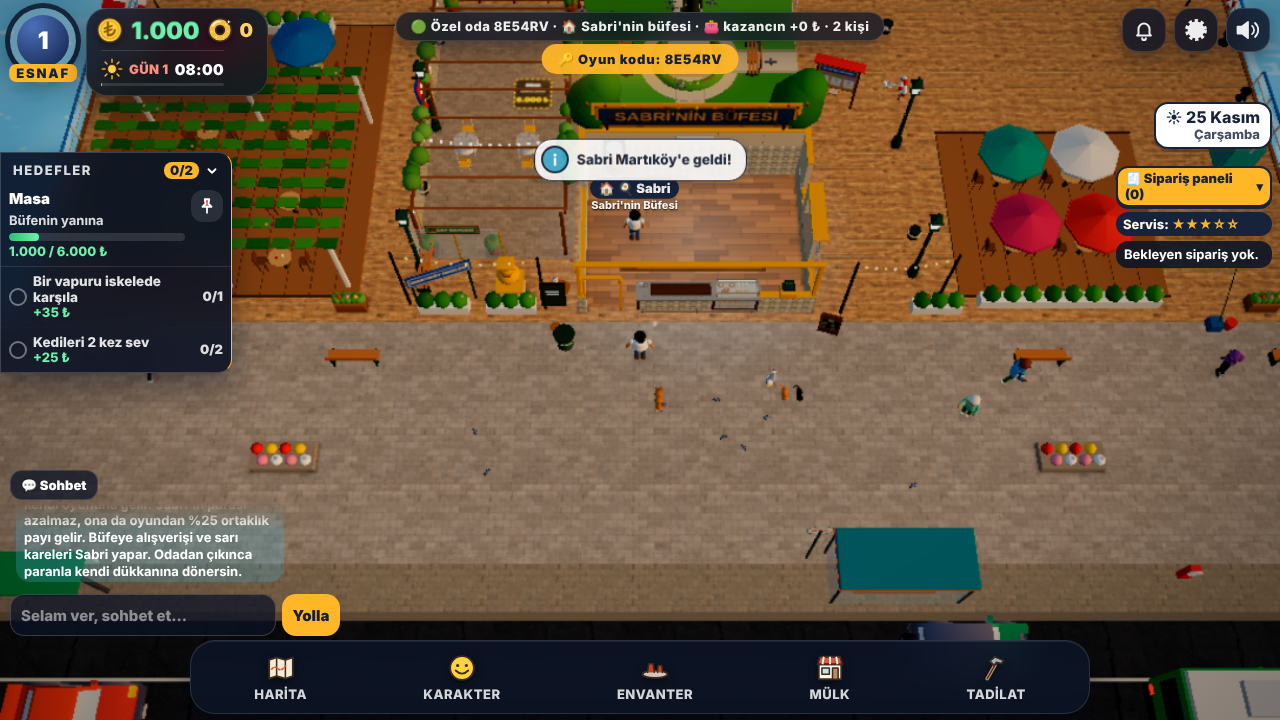
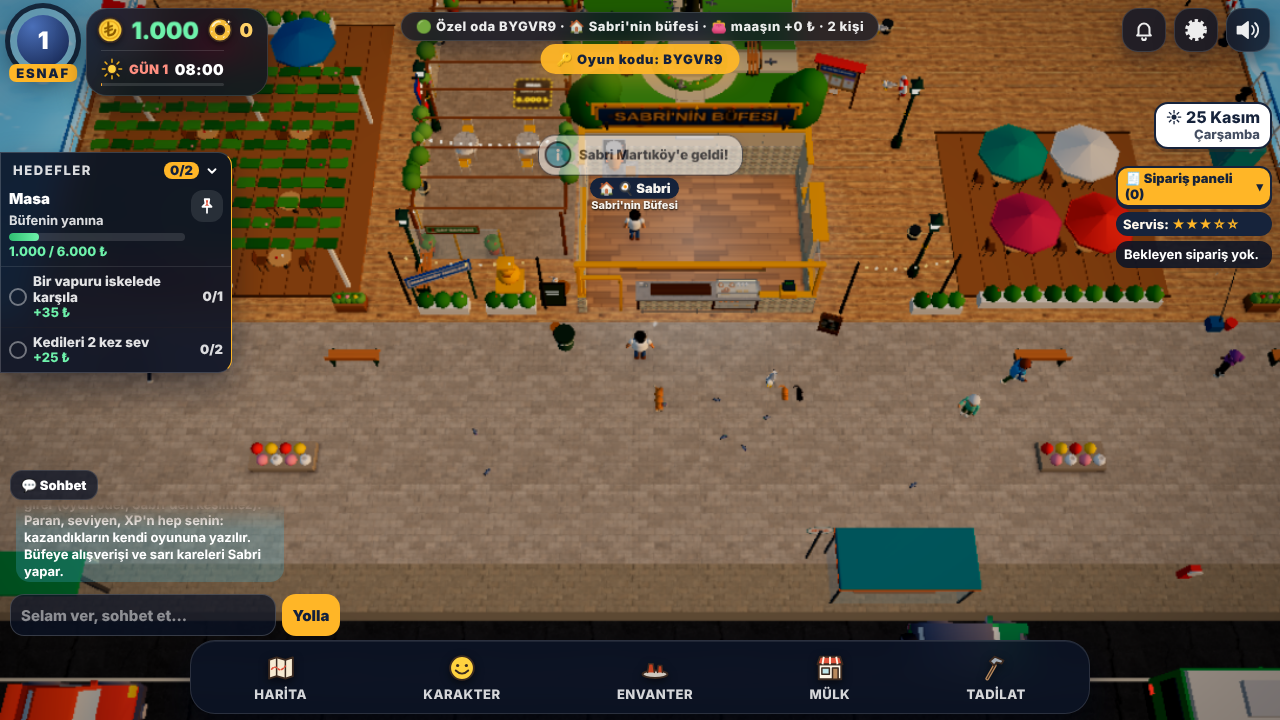
Multiplayer: MMORPG usulü, satış ev sahibine, misafire maaş, seviye herkesin kendine
Sahip 2026-11-25: "bir mmorpg gibi düşün herkesin seviyesi parası gelişimi
kendine, gelen arkadaş yardım ediyor karşılığında maaş alıyor".

- Misafirin ev sahibinin büfesindeki satışı (tezgah, adisyon, bahşiş,
  salon) ev sahibinin kasasına tam gider; misafirin cebine oyunun bastığı
  %25 maaş girer (economy.ts pay/cashIn), para hiç geri düşmez.
- Misafirin XP'si kendi seviyesine birikir (levels.ts rt.misafirXp),
  çıkışta / kayıtta kendi seviyesini atlatır; ev sahibinin seviyesi oynamaz.
- Rozetler: misafir "maaşın +N", ev sahibi "yardım +N".
- Önceki committeki düzeltmeler (kira, alışveriş kilidi, kayıt, dünya
  yenileme) aynen duruyor.

Claude-Session: https://claude.ai/code/session_01GSWba9W2QykZec9B4C2BEG

diff --git a/oyun/src/game/online.ts b/oyun/src/game/online.ts
@@ -12,7 +12,7 @@
  * - Names travel as typed nicknames in presence (display data, untrusted), set with textContent only.
  */
 import { hesap } from './net/supa';
-import { ORTAK_PAY } from './net/misafir';
+import { MISAFIR_MAAS } from './net/misafir';
 import { susturuldu, benSusturuldum, adlar } from './net/admin';
 import { adDogrulayici, etiket } from './net/kimlik';
 import { logYaz } from './net/log';
@@ -143,7 +143,7 @@ export function createOnline(d: OnlineDeps): OnlineView {
   let hostMissing = 0;
   const kimlik = adDogrulayici(adlar); let kimlikT = 0;   // Martı Kimlik: görünen hesap adı sunucudan (net/kimlik.ts)
   let retryT = 20, host = false, guestOf = '', guestSig = '', worldT = 0, worldWant = false, worldSig = '', kasaBase = -1, askT = 3, sheetT = 0;
-  /** net/misafir.ts: misafirin bu odada kazandığı (tamamı kendi cebinde) / ev sahibine gelen ortaklık payı; oda rozetinde yazar */
+  /** net/misafir.ts: misafirin bu odada ev sahibine sattığı (maaşı bunun MISAFIR_MAAS payı) / ev sahibine misafirlerden gelen; oda rozetinde yazar */
   let misafirKazanc = 0, ortakToplam = 0;
   try { const q = new URLSearchParams(location.search).get('oda'); if (q) code = kodTemiz(q); } catch { /* */ }
 
@@ -163,7 +163,7 @@ export function createOnline(d: OnlineDeps): OnlineView {
   if (supaReady()) connect(code);
 
   function connect(c: string, asHost = false) {
-    kasaGonder();   // odadan çıkmadan son satış bildirilir (ev sahibinin ortaklık payı kaybolmasın)
+    kasaGonder();   // odadan çıkmadan son satış ev sahibinin kasasına bildirilir
     if (link) { link.leave(); link = null; }
     if (guestOf) { guestOf = ''; guestSig = ''; try { d.world?.leave(); } catch { /* */ } }
     misafirKazanc = 0; ortakToplam = 0;
@@ -185,7 +185,7 @@ export function createOnline(d: OnlineDeps): OnlineView {
     if (!d.world || !l.on) return;
     l.on('iste', () => { if (host) worldWant = true; });
     l.on('pm', pl => { if (pl.to !== l.id || typeof pl.text !== 'string') return; const rp = remotes.get(String(pl.id || '')), ad = etiket(String(pl.ad || 'Esnaf'), rp ? kimlik.ad(rp.uid) : ''); addLog('🔒 ' + ad + ' → sen', filterChat(pl.text), 'pm', String(pl.id || '')); d.toast('🔒 ' + ad + ' sana yazdı'); });
-    // net/misafir.ts: misafirin sattığı kendi cebinde; ev sahibine yalnız oyunun bastığı ortaklık payı gelir (kimseden kesilmez)
+    // net/misafir.ts: misafirin sattığı ev sahibinin kasasına; misafirin maaşını oyun basar (kimseden kesilmez)
     l.on('kasa', pl => { const n = Number(pl.n); if (host && n > 0 && n < 1e7) { ortakToplam += d.world!.addKasa(Math.floor(n), String(pl.ad || 'Bir esnaf').slice(0, 14)) || 0; ui(); } });
     l.on('_ok', () => { if (!host && code) l.emit?.('iste', {}); });
     l.on('dunya', pl => {
@@ -194,13 +194,13 @@ export function createOnline(d: OnlineDeps): OnlineView {
       if (pl.sig === guestSig) return;
       const first = !guestOf;
       guestSig = pl.sig; guestOf = ad;
-      if (!first) kasaGonder();   // dünya yenilenmeden önce bekleyen satış bildirilir (eskiden her yenilemede siliniyordu: ortaklık payı / kazanç 0 kalıyordu)
+      if (!first) kasaGonder();   // dünya yenilenmeden önce bekleyen satış bildirilir (eskiden her yenilemede siliniyordu: ev sahibine 0 gidiyordu)
       try { d.world!.apply(pl.w, ad); kasaBase = d.world!.earned(); } catch { /* bad world: keep own */ }
-      if (first) { d.toast(tamlayan(ad) + " büfesindesin. Sattığın senin cebine!"); addLog('Martıköy', tamlayan(ad) + " büfesindesin. Sattığın her kuruş senin cebine girer ve kendi oyununa gelir. " + ad + "'in parası azalmaz, ona da oyundan %" + Math.round(ORTAK_PAY * 100) + ' ortaklık payı gelir. Büfeye alışverişi ve sarı kareleri ' + ad + ' yapar. Odadan çıkınca paranla kendi dükkanına dönersin.', 'sys'); }
+      if (first) { d.toast(tamlayan(ad) + ' büfesinde yardımdasın. Satış başına maaş alırsın!'); addLog('Martıköy', tamlayan(ad) + ' büfesindesin. Sattıkların onun kasasına gider; sana da her satışın %' + Math.round(MISAFIR_MAAS * 100) + "'i maaş olarak cebine girer (oyun öder, " + ad + "'den kesilmez). Paran, seviyen, XP'n hep senin: kazandıkların kendi oyununa yazılır. Büfeye alışverişi ve sarı kareleri " + ad + ' yapar.', 'sys'); }
       ui();
     });
   }
-  /** misafirin son bildirimden beri sattığı: cebinde kalır (net/misafir.ts), ev sahibine ortaklık payı için bildirilir */
+  /** misafirin son bildirimden beri sattığı: ev sahibinin kasasına bildirilir (net/misafir.ts) */
   function kasaGonder() {
     if (host || !guestOf || !d.world || !link?.emit) return;
     const e = d.world.earned(), n = kasaBase >= 0 ? e - kasaBase : 0;
@@ -262,7 +262,7 @@ export function createOnline(d: OnlineDeps): OnlineView {
       input.addEventListener('keyup', e => e.stopPropagation());
       addLog('Martıköy', 'Online dünyaya hoş geldin! Bir oyuncunun adına dokun, ona özel mesaj at.', 'sys');
     }
-    setPill('🟢 ' + (code ? 'Özel oda ' + code + (host ? ' · 🏠 ev sahibi' + (ortakToplam > 0 ? ' · 🤝 ortaklık +' + Math.floor(ortakToplam).toLocaleString('tr-TR') + ' ₺' : '') : guestOf ? ' · 🏠 ' + tamlayan(guestOf) + " büfesi · 👛 kazancın +" + Math.floor(misafirKazanc).toLocaleString('tr-TR') + ' ₺' : '') : '') + ' · ' + (remotes.size + 1) + ' kişi');
+    setPill('🟢 ' + (code ? 'Özel oda ' + code + (host ? ' · 🏠 ev sahibi' + (ortakToplam > 0 ? ' · 🤝 yardım +' + Math.floor(ortakToplam).toLocaleString('tr-TR') + ' ₺' : '') : guestOf ? ' · 🏠 ' + tamlayan(guestOf) + " büfesi · 👛 maaşın +" + Math.floor(misafirKazanc * MISAFIR_MAAS).toLocaleString('tr-TR') + ' ₺' : '') : '') + ' · ' + (remotes.size + 1) + ' kişi');
     if (odaBtn) odaBtn.textContent = code ? '🔑 Oyun kodu: ' + code : '🔑 Arkadaşını çağır';
   }
   function odaPanel() {
@@ -271,7 +271,7 @@ export function createOnline(d: OnlineDeps): OnlineView {
     const main = (err = '') => {
       bg.innerHTML = `<div class="on-card"><h3>🔑 Oyun kodu</h3><p>Oyunun sadece senin. Arkadaşın gelsin istersen kod oluştur, kodu ona söyle. O da "Katıl"a yazsın, aynı Martıköy'de buluşun.</p>
 ${code ? `<div class="on-big">${code}</div><p>Şu an bu odadasın.</p>` : ''}
-<button class="on-b g" data-a="kur">Yeni oda kur</button><p style="margin:6px 0 0;font-size:12px">Odayı kuran ev sahibi olur: girenler senin büfende çalışır. Herkes sattığını kendi cebine koyar, kimsenin parası azalmaz; ev sahibine ortaklık payı gelir.</p>
+<button class="on-b g" data-a="kur">Yeni oda kur</button><p style="margin:6px 0 0;font-size:12px">Odayı kuran ev sahibi olur: girenler senin büfende çalışır. Sattıkları senin kasana gelir, onlara maaşı oyun öder; kimsenin parası ve seviyesi karışmaz.</p>
 <div style="margin-top:12px;font:900 15px var(--disp)">Odaya katıl</div>
 <input class="on-code" maxlength="6" placeholder="KOD" autocomplete="off" spellcheck="false">
 <button class="on-b y" data-a="katil">Katıl</button><div class="on-err">${err}</div>

diff --git a/oyun/src/game/boot.ts b/oyun/src/game/boot.ts
@@ -118,7 +118,7 @@ import { createKarsiBina, type BinaView } from './view/world/karsi-bina';
 import { createIsletmeInsaat, type InsaatView } from './view/world/isletme-insaat';
 import { createInsaatSahasi, type InsaatSahasiView } from './view/world/insaat-sahasi';
 import { gecitAcik } from '../content/kilitli-bolge';
-import { misafirDunya, misafirDonus, ortakPay, toplanmamis } from './net/misafir';
+import { misafirDunya, misafirDonus, toplanmamisMaas } from './net/misafir';
 import { createBufeBuyume, mevsimZorla, type BuyumeView } from './view/world/bufe-buyume';
 import { createParkLook, type ParkView } from './view/world/park-look';
 import { createAcilis, type AcilisView } from './view/world/acilis';
@@ -300,7 +300,8 @@ export async function boot(canvas: HTMLCanvasElement | null): Promise<void> {
   const saveOn = () => !noSave && !guestWorld;
   // 2026-11-25 (net/misafir.ts): misafirken kazanılan para misafirin KENDİ kaydına yazılır; sekme kapansa da kaybolmaz
   let misafirSure = 0, misafirKayitT = 10;
-  const misafirKendi = () => misafirDonus(JSON.parse(ownBackup!) as AnyRec, sim.state as unknown as AnyRec, misafirSure) as unknown as GameState;
+  const misafirXp = () => Number((sim.rules.rt as unknown as { misafirXp?: number }).misafirXp) || 0;   // sim/levels.ts
+  const misafirKendi = () => misafirDonus(JSON.parse(ownBackup!) as AnyRec, sim.state as unknown as AnyRec, misafirSure, misafirXp()) as unknown as GameState;
   const ownSave: SaveStore<GameState> = createStateSave(misafirKendi, platform, { key: params.save ?? SAVE_KEY, log });
   /** kayıt yazılabilir mi (kendi oyunu ya da misafirken kendi kaydı) ve hangi depo / durum */
   const kayitAcik = () => !noSave && (!guestWorld || !!ownBackup);
@@ -523,23 +524,24 @@ export async function boot(canvas: HTMLCanvasElement | null): Promise<void> {
       sig: () => { const S = sim.state as unknown as AnyRec; return JSON.stringify([S.owned, S.padPaid, S.tiers, S.stage, S.renewed, S.tadilat, S.decorOwned, S.decorSlots, S.sign, (S.workers as unknown[] | undefined)?.length, S.kepenk, (S.zones as AnyRec | undefined)?.restoran]); },
       apply: (json: string) => {
         // kendi kaydı önce EŞZAMANLI alınır: eskiden save.save() asenkron koşup ev sahibinin dünyasını misafirin kendi kaydı diye yazıyordu
-        if (!ownBackup) { try { sim.rules.snapshot(platform.clock.wall()); } catch { /* */ } ownBackup = JSON.stringify(sim.state); misafirSure = 0; misafirKayitT = 10; }
+        if (!ownBackup) { try { sim.rules.snapshot(platform.clock.wall()); } catch { /* */ } ownBackup = JSON.stringify(sim.state); misafirSure = 0; misafirKayitT = 10; (sim.rules.rt as unknown as { misafirXp?: number }).misafirXp = 0; }
         const own = JSON.parse(ownBackup) as AnyRec, h = JSON.parse(json) as AnyRec;
         // net/misafir.ts: ev sahibinin büfesi, misafirin kendi cüzdanı. Zaten misafirse (ev sahibi bir şey aldı, dünya yenilendi):
         // şu anki cüzdan + toplanmamış kasası cebe, yeri değişmez (eskiden kasa yığını kayboluyor, misafir giriş yerine ışınlanıyordu)
         const pl = { ...(sim.state.player as unknown as AnyRec), x: walk.pos.x, z: walk.pos.z, kat: (walk as unknown as { kat?: number }).kat || 0 };
-        const m = misafirDunya(guestWorld ? { ...own, money: sim.state.money + toplanmamis(sim.rules.rt as never), gold: sim.state.gold, player: pl } : own, h);
+        const m = misafirDunya(guestWorld ? { ...own, money: sim.state.money + toplanmamisMaas(sim.rules.rt as never), gold: sim.state.gold, player: pl } : own, h);
         guestWorld = true; sim.load(m as never); (sim.rules.rt as unknown as { misafir?: boolean }).misafir = true;
         if (!noSave && !save.readOnly) void ownSave.save('manual');   // kendi kaydı (ev sahibinin dünyası değil)
       },
       earned: () => Number(sim.state.totalEarned) || 0,
       money: () => sim.state.money,
       setMoney: (n: number) => { sim.state.money = n; },
-      addKasa: (n: number, from: string) => { const pay = ortakPay(n); if (pay > 0) { sim.rules.credit!('diger', pay); kasaToast += pay; kasaFrom = from; } return pay; },
+      addKasa: (n: number, from: string) => { const v = sim.rules.credit!('diger', n); kasaToast += v; kasaFrom = from; return v; },   // misafirin satışı ev sahibinin kasasına (net/misafir.ts)
       leave: () => {
         if (ownBackup) {
-          const cur = { money: sim.state.money + toplanmamis(sim.rules.rt as never), gold: sim.state.gold };   // toplanmamış kasa da misafirin emeği
-          sim.load(misafirDonus(JSON.parse(ownBackup), cur, misafirSure) as never); ownBackup = null;
+          const cur = { money: sim.state.money + toplanmamisMaas(sim.rules.rt as never), gold: sim.state.gold };   // toplanmamış satışın maaşı da misafirin
+          sim.load(misafirDonus(JSON.parse(ownBackup), cur, misafirSure, misafirXp()) as never); ownBackup = null;
+          (sim.rules.rt as unknown as { misafirXp?: number }).misafirXp = 0;
         }
         guestWorld = false; (sim.rules.rt as unknown as { misafir?: boolean }).misafir = false;
         if (saveOn()) void save.save('manual').then(bulutPush);   // kazanç hemen kendi kaydına
@@ -824,7 +826,7 @@ export async function boot(canvas: HTMLCanvasElement | null): Promise<void> {
     if (kayitRozet) guard('kayitRozet', () => kayitRozet.guncelle());
     if (online) guard('online', () => online.update(fdt));
     if (adminPanel) guard('adminPanel', () => adminPanel.update(fdt));
-    if (kasaToast > 0 && (kasaT -= fdt) <= 0) { kasaT = 6; U.toast(kasaFrom + ' senin büfende satıyor: ortaklık payın +' + Math.floor(kasaToast).toLocaleString('tr-TR') + ' ₺ (ondan kesilmedi)', 'good'); kasaToast = 0; }
+    if (kasaToast > 0 && (kasaT -= fdt) <= 0) { kasaT = 6; U.toast(kasaFrom + ' büfende yardım etti: kasaya +' + Math.floor(kasaToast).toLocaleString('tr-TR') + ' ₺. Maaşını oyun öder, senden kesilmez.', 'good'); kasaToast = 0; }
     if (haliSaha) guard('haliSaha', () => haliSaha.update());
     if (reklam) guard('reklam', () => reklam.update(fdt));
     if (havaLook) guard('havaLook', () => havaLook.update(fdt));

diff --git a/oyun/tests/sim/misafir-para.test.ts b/oyun/tests/sim/misafir-para.test.ts
@@ -1,11 +1,13 @@
 // 2026-11-25 sahip: "arkadaşın oyununa katılınca paranın ortak oluşunu dert ediyorlar, öyle bir hal almalı ki dert edilmemeli".
-// Kural net/misafir.ts + sim/misafir-kural.ts: sattığın senin (tamamı, kesintisiz, kalıcı); ev sahibine oyundan ortaklık payı
-// basılır, kimseden kesilmez; misafir ev sahibinin dünyasında para harcayamaz, kirası / pasif geliri misafire dokunmaz.
+// Aynı gün: "bir mmorpg gibi düşün herkesin seviyesi parası gelişimi kendine, gelen arkadaş yardım ediyor karşılığında maaş alıyor".
+// Kural net/misafir.ts + sim/misafir-kural.ts: satış ev sahibine, misafire oyundan maaş (kesintisiz, geri düşmez, kalıcı), XP misafirin
+// kendi seviyesine; misafir ev sahibinin dünyasında para harcayamaz, kirası / pasif geliri misafire dokunmaz.
 import { it, expect } from 'vitest';
 import { played } from './m1-helpers';
 import { createSim } from '../../src/game/headless';
 import { emptyContent } from '../../src/content/index';
-import { misafirDunya, misafirDonus, ortakPay, toplanmamis, ORTAK_PAY } from '../../src/game/net/misafir';
+import { misafirDunya, misafirDonus, toplanmamis, toplanmamisMaas, MISAFIR_MAAS } from '../../src/game/net/misafir';
+import { xpForLevel } from '../../src/content/economy';
 import { misafirYasak } from '../../src/game/sim/misafir-kural';
 const log = { info() {}, warn() {}, error() {} };
 function misafirSim() {
@@ -24,25 +26,36 @@ it('misafir ev sahibinin dünyasına girer ama kendi parası, altını, yeri dur
   expect(m.zones.esnafim.ad).toBe('Ali'); expect(m.zones.arsa.plots.k1).toBeDefined(); expect(m.player.x).toBe(1);
   // çıkış: kazandığı para + altın kendi kaydına, misafirlik süresi oyun süresine (bulut kaydı daha yeni sayılır)
   const geri = misafirDonus(own, { ...m, money: 5400, gold: 9 }, 120) as any;
-  expect(geri).toMatchObject({ money: 5400, gold: 9, stage: 1, playT: 620 });
+  expect(geri).toMatchObject({ money: 5400, gold: 9, stage: 1, playT: 620, level: 1 });
+  // misafirken kazandığı XP kendi seviyesini atlatır
+  const lv = misafirDonus({ ...own, level: 1, xp: 0 }, own, 0, xpForLevel(1) + 3) as any;
+  expect(lv).toMatchObject({ level: 2, xp: 3 });
 });
 
-it('ev sahibine misafirin satışının ortaklık payı basılır; misafirin toplanmamış kasası sayılır', () => {
-  expect(ORTAK_PAY).toBe(0.25);
-  expect(ortakPay(400)).toBe(100);
-  expect(ortakPay(0)).toBe(0); expect(ortakPay(-5)).toBe(0); expect(ortakPay(1e9)).toBe(0);   // bozuk / sahte mesaj
-  expect(toplanmamis({ kasa: [{ value: 40 }, { value: 60.5 }], tables: [{ pile: [{ value: 10 }] }, {}], floor: [{ value: 5 }] })).toBe(115);
+it('misafirin toplanmamış satışından maaşı sayılır', () => {
+  expect(MISAFIR_MAAS).toBe(0.25);
+  const rt = { kasa: [{ value: 40 }, { value: 60.5 }], tables: [{ pile: [{ value: 10 }] }, {}], floor: [{ value: 5 }] };
+  expect(toplanmamis(rt)).toBe(115); expect(toplanmamisMaas(rt)).toBe(28);
 });
 
-it('misafirin sattığı tamamı cebinde kalır; ev sahibinin işletme / faiz / hedef geliri misafire ödenmez', () => {
-  const sim = misafirSim(), S = sim.rules.state; S.money = 1000;
-  expect(sim.rules.credit('tezgah', 400)).toBe(400);
-  expect(sim.rules.credit('adisyon', 100)).toBe(100);
-  expect(S.money).toBe(1500);
+it('misafirin satışı ev sahibinin defterine tam yazılır, cebine maaş girer (geri düşmez); pasif gelir misafire ödenmez', () => {
+  const sim = misafirSim(), S = sim.rules.state; S.money = 1000; const e0 = S.totalEarned;
+  sim.rules.credit('tezgah', 400); sim.rules.credit('adisyon', 100);
+  expect(S.money).toBe(1125);                 // 500 satışın %25'i maaş
+  expect(S.totalEarned - e0).toBe(500);       // ev sahibine bildirilen satış tam
+  sim.rules.cashIn(200); expect(S.money).toBe(1175);   // kasadan toplanan satış parası da maaş olarak
+  sim.rules.credit('mac', 300); expect(S.money).toBe(1475);   // kendi oynadığı maçın parası tam kendisinin
   for (const k of ['isletme', 'faiz', 'hedef', 'basarim', 'yildiz', 'tadilat']) expect(sim.rules.credit(k, 5000)).toBe(0);
-  expect(S.money).toBe(1500);
+  expect(S.money).toBe(1475);
   sim.rules.rt.misafir = false;
-  expect(sim.rules.credit('isletme', 5000)).toBe(5000);   // kendi oyununda normal
+  sim.rules.credit('tezgah', 400); expect(S.money).toBe(1875);   // kendi oyununda satış tam
+  expect(sim.rules.credit('isletme', 5000)).toBe(5000);
+});
+
+it('misafirin XP ev sahibinin seviyesini oynatmaz, kendi hesabına birikir', () => {
+  const sim = misafirSim(), S = sim.rules.state; const lv = S.level, xp = S.xp;
+  sim.rules.addXP(99999);
+  expect(S.level).toBe(lv); expect(S.xp).toBe(xp); expect(sim.rules.rt.misafirXp).toBe(99999);
 });
 
 it('misafirin cebinden gün sonu kira / fatura kesilmez (kendi oyununda kesilir)', () => {

diff --git a/oyun/src/game/net/misafir.ts b/oyun/src/game/net/misafir.ts
@@ -2,33 +2,36 @@
  * Odaya misafir olarak girmek (online.ts "dünya"). Kural geçmişi:
  *  - 2026-10-25 sahip: "odamda çalışan arkadaşım maaş gibi para alsın ama benim payımdan gitmesin".
  *  - 2026-11-23 sahip: "öğrencilerle girdik, bende ne para varsa onlarda da o görünüyor" (misafir ev sahibinin parasını görüyordu).
- *  - 2026-11-25 sahip: "arkadaşın oyununa katılınca paranın ortak oluşunu dert ediyorlar, öyle bir hal almalı ki dert edilmemeli".
- * Şimdiki kural (tek cümle: "Sattığın senin, ev sahibinden hiçbir şey eksilmez"):
- *  - Misafirin cüzdanı kendisinindir: ekranda yalnız kendi parası / altını durur, ev sahibinin kasası hiçbir yerde yazmaz.
- *  - Misafir ev sahibinin büfesinde ne satarsa TAMAMI kendi cebine girer (kesinti yok, geri düşme yok) ve kendi kaydına taşınır.
- *  - Ev sahibine misafirin satışının ORTAK_PAY kadarı "ortaklık payı" olarak oyundan basılır (misafirden kesilmez).
+ *  - 2026-11-25 sahip: "paranın ortak oluşunu dert ediyorlar ... bir mmorpg gibi düşün herkesin seviyesi parası gelişimi kendine,
+ *    gelen arkadaş yardım ediyor karşılığında maaş alıyor".
+ * Şimdiki kural:
+ *  - Herkesin parası, altını, seviyesi kendinedir. Misafirin ekranında yalnız kendi cüzdanı durur; ev sahibinin kasası yazmaz.
+ *  - Misafirin ev sahibinin büfesinde sattığı ev sahibinin kasasına gider (yardım). Misafire oyun satışın MISAFIR_MAAS kadarını
+ *    maaş olarak basar (ev sahibinden kesilmez, misafirin parası hiç geri düşmez): sim/economy.ts.
+ *  - Misafirin kazandığı XP kendi seviyesine yazılır (sim/levels.ts); ev sahibinin dünyasındaki seviye / kapılar onunkidir.
  *  - Ev sahibinin dünyasını değiştiren alışveriş, kira / fatura, pasif gelir misafire kapalı: sim/misafir-kural.ts.
- *  - Misafirken kazanılan para düzenli olarak misafirin KENDİ kaydına yazılır (sekme kapansa da kaybolmaz, boot.ts).
+ *  - Maaş ve XP düzenli olarak misafirin KENDİ kaydına yazılır (sekme kapansa da kaybolmaz, boot.ts).
  * Saf yardımcılar (boot.ts world köprüsü kullanır, tests/sim/misafir-para.test.ts).
  */
+import { xpForLevel } from '../../content/economy';
+import { MISAFIR_MAAS } from '../sim/misafir-kural';
+export { MISAFIR_MAAS };
 type Rec = Record<string, unknown>;
-/** ev sahibine misafirin satışından oyunun bastığı ortaklık payı */
-export const ORTAK_PAY = 0.25;
 
 /** ev sahibinin dünyası + misafirin kendi kimliği ve cüzdanı. Ev sahibinin toplanmamış kasası misafire geçmez (pile 0). */
 export function misafirDunya(own: Rec, host: Rec): Rec {
   return { ...host, money: own.money, gold: own.gold, player: own.player, settings: own.settings, hero: own.hero, lastSeen: own.lastSeen, pile: 0, zones: { ...(host.zones as Rec), esnafim: (own.zones as Rec | undefined)?.esnafim } };
 }
-/** ev sahibinin aldığı ortaklık payı (misafirin `satis` ₺ satışından) */
-export function ortakPay(satis: number): number {
-  return satis > 0 && satis < 1e7 ? Math.round(satis * ORTAK_PAY) : 0;
+/** misafirin kendi kaydı: misafirken değişen cüzdan, kazandığı XP (seviye atlatır), `sure` sn oyun süresi (bulut kaydı daha yeni sayılsın) */
+export function misafirDonus(own: Rec, cur: Rec, sure = 0, xp = 0): Rec {
+  let level = Math.max(1, Number(own.level) || 1), x = Math.max(0, Number(own.xp) || 0) + Math.max(0, xp);
+  for (let need = xpForLevel(level); x >= need; need = xpForLevel(level)) { x -= need; level++; }
+  return { ...own, money: cur.money, gold: cur.gold, xp: x, level, playT: (Number(own.playT) || 0) + Math.max(0, sure) };
 }
-/** misafirin kendi kaydı, misafirken değişen cüzdanla; `sure` sn misafirlik oyun süresine eklenir (bulut kaydı daha yeni sayılsın) */
-export function misafirDonus(own: Rec, cur: Rec, sure = 0): Rec {
-  return { ...own, money: cur.money, gold: cur.gold, playT: (Number(own.playT) || 0) + Math.max(0, sure) };
-}
-/** misafirin yerel dünyasında toplanmamış parası (kasa yığını, masa bahşişi, yerdeki para): dünya yenilenince cebe geçer */
+/** misafirin yerel dünyasında toplanmamış satış parası (kasa yığını, masa bahşişi, yerdeki para) */
 export function toplanmamis(rt: { kasa?: { value: number }[]; tables?: { pile?: { value: number }[] }[]; floor?: { value: number }[] }): number {
   const sum = (p?: { value: number }[]) => (p || []).reduce((a, b) => a + (Number(b.value) || 0), 0);
   return Math.floor(sum(rt.kasa) + (rt.tables || []).reduce((a, t) => a + sum(t.pile), 0) + sum(rt.floor));
 }
+/** dünya yenilenirken / çıkarken toplanmamış satıştan misafirin cebine geçen maaş */
+export const toplanmamisMaas = (rt: Parameters<typeof toplanmamis>[0]): number => Math.floor(toplanmamis(rt) * MISAFIR_MAAS);

diff --git a/oyun/src/game/sim/economy.ts b/oyun/src/game/sim/economy.ts
@@ -18,7 +18,7 @@ import { clamp, r1 } from './util';
 import { streakStep, streakMult } from './streak';
 import { setHit } from './sets';
 import { yatirimFx } from './yatirim';
-import { MISAFIR_KAPALI_KAYNAK } from './misafir-kural';
+import { MISAFIR_KAPALI_KAYNAK, MISAFIR_IS, MISAFIR_MAAS } from './misafir-kural';
 
 export function installEconomy(K: Kernel, addMoneyTo: (pile: MoneyStack[], v: number) => void): { sales: SalesApi; settleSale(c: Customer | null, items: Plate[], opts?: { direct?: boolean; at?: Vec2 }): number; tipMult(): number; earn(v: number, at?: Vec2): number; earnTam(v: number, kaynak?: string): void; credit(kaynak: string, tutar: number, o?: { tavanli?: boolean; at?: Vec2 }): number; book(kaynak: string, tutar: number): void; cashIn(tutar: number): void; incomePerMin(): number } {
   const rt = K.rt, S = K.state;
@@ -37,8 +37,10 @@ export function installEconomy(K: Kernel, addMoneyTo: (pile: MoneyStack[], v: nu
     const src = (t.src ||= {}); src[k] = (src[k] || 0) + v;
     S.stats['kaynak_' + k] = (S.stats['kaynak_' + k] || 0) + v;
   };
-  const cashIn = (v: number) => { if (!(v > 0)) return; S.money += v; K.statMax('moneyMax', S.money); };
-  const pay = (v: number, kaynak = 'tezgah') => { S.money += v; book(kaynak, v); K.statMax('moneyMax', S.money); };
+  // odada misafir (sim/misafir-kural.ts): ev sahibinin büfesindeki satış ev sahibinindir, misafirin cebine oyunun bastığı maaş girer
+  const misafir = () => !!(rt as unknown as { misafir?: boolean }).misafir;
+  const cashIn = (v: number) => { if (!(v > 0)) return; S.money += misafir() ? v * MISAFIR_MAAS : v; K.statMax('moneyMax', S.money); };
+  const pay = (v: number, kaynak = 'tezgah') => { S.money += misafir() && MISAFIR_IS.has(kaynak) ? v * MISAFIR_MAAS : v; book(kaynak, v); K.statMax('moneyMax', S.money); };
   // Yan gelir tavanı yalnız rastgele küçük bonuslara: max(600, %10 x günlük hedef geliri), dünden devreden pay ile.
   const T = () => S.today as unknown as { sales?: number; bonus?: number; cost?: number; bonusDoldu?: boolean };
   const bonusTavan = (): number => {
@@ -48,7 +50,7 @@ export function installEconomy(K: Kernel, addMoneyTo: (pile: MoneyStack[], v: nu
   };
   const credit = (kaynak: string, tutar: number, o: { tavanli?: boolean; at?: Vec2 } = {}): number => {
     let v = Math.max(0, Math.round(tutar)); if (!v) return 0;
-    if ((rt as unknown as { misafir?: boolean }).misafir && MISAFIR_KAPALI_KAYNAK.has(kaynak)) return 0;   // ev sahibinin pasif geliri / ödülü misafire ikiz para olmasın
+    if (misafir() && MISAFIR_KAPALI_KAYNAK.has(kaynak)) return 0;   // ev sahibinin pasif geliri / ödülü misafire ikiz para olmasın
     if (o.tavanli) {
       const t = T(), kalan = Math.max(0, Math.round(bonusTavan() - (t.bonus || 0)));
       if (v > kalan) { v = kalan; if (!t.bonusDoldu) { t.bonusDoldu = true; K.toast('Bugünlük bonus doldu.', 'info'); } }

diff --git a/oyun/src/game/sim/misafir-kural.ts b/oyun/src/game/sim/misafir-kural.ts
@@ -1,14 +1,21 @@
 /**
  * Odada misafirken (rt.misafir, net/misafir.ts) sim kuralları. 2026-11-25 sahip: "arkadaşın oyununa katılınca paranın ortak
- * oluşunu dert ediyorlar, dert edilmemeli". Misafirin ekranındaki dünya ev sahibinin büfesinin yerel kopyasıdır; o kopyada
+ * oluşunu dert ediyorlar, dert edilmemeli". Aynı gün: "bir mmorpg gibi düşün herkesin seviyesi parası gelişimi kendine, gelen
+ * arkadaş yardım ediyor karşılığında maaş alıyor". Misafirin ekranındaki dünya ev sahibinin büfesinin yerel kopyasıdır; o kopyada
  * harcanan para hiçbir yere gitmez, oradan gelen pasif gelir de ev sahibinin kendi gelirinin ikizidir. Kural:
- *  - Misafirin cebine yalnız kendi emeği girer (tezgah, adisyon, bahşiş, salon, kendi oynadığı maç / bahis / sınav / iş).
+ *  - Misafirin ev sahibinin büfesindeki satışı (MISAFIR_IS) ev sahibinindir; misafirin cebine oyunun bastığı MISAFIR_MAAS maaş girer
+ *    (economy.ts pay / cashIn). Kendi oynadığı maç / bahis / sınav / iş parası tam kendisinin.
+ *  - XP misafirin kendi seviyesine yazılır, ev sahibinin seviyesi oynamaz (levels.ts, rt.misafirXp).
  *  - Ev sahibinin işletme kasası, faizi, hedef / başarım / yıldız / tadilat ödülleri misafire ödenmez (ikiz para).
  *  - Ev sahibinin dünyasını değiştiren alışveriş misafire kapalıdır (para cebinden çıkıp boşa giderdi); toast söyler.
  *  - Gün sonu kira / fatura / maaş misafirin cebinden kesilmez (gider.ts, karne.ts).
  */
 type Cmd = { kind: string; op?: unknown; arg?: unknown };
 
+/** misafirin ev sahibinin büfesinde çalışarak kazandığı (satış ev sahibine gider, misafire maaş) */
+export const MISAFIR_IS: ReadonlySet<string> = new Set(['tezgah', 'adisyon', 'bahsis', 'salon']);
+/** satışın misafire maaş olarak basılan payı (ev sahibinden kesilmez) */
+export const MISAFIR_MAAS = 0.25;
 /** misafirin cebine girmeyen gelir kaynakları (economy.ts credit) */
 export const MISAFIR_KAPALI_KAYNAK: ReadonlySet<string> = new Set(['isletme', 'faiz', 'hedef', 'basarim', 'yildiz', 'tadilat']);
 

diff --git a/oyun/src/game/sim/pads.ts b/oyun/src/game/sim/pads.ts
@@ -151,6 +151,6 @@ export function misafirKare(K: { rt: unknown; state: { playT: number }; toast(t:
   const r = K.rt as { misafir?: boolean; misafirUyari?: number };
   if (!r.misafir) return false;
   const son = r.misafirUyari ?? -99;
-  if (K.state.playT - son > 6 || K.state.playT < son) { r.misafirUyari = K.state.playT; K.toast('Burası ev sahibinin büfesi: sarı kareleri o açar. Sen sat, sattığın senin cebine.', 'bad'); }
+  if (K.state.playT - son > 6 || K.state.playT < son) { r.misafirUyari = K.state.playT; K.toast('Burası ev sahibinin büfesi: sarı kareleri o açar. Sen sat, maaşın cebine yatsın.', 'bad'); }
   return true;
 }

diff --git a/oyun/src/game/sim/levels.ts b/oyun/src/game/sim/levels.ts
@@ -4,6 +4,9 @@ import type { Kernel } from './state';
 export function installLevels(K: Kernel): (n: number) => void {
   const S = K.state;
   return (n: number) => {
+    // odada misafir: XP ev sahibinin seviyesine değil misafirin KENDİ seviyesine yazılır (net/misafir.ts misafirDonus)
+    const r = K.rt as unknown as { misafir?: boolean; misafirXp?: number };
+    if (r.misafir) { r.misafirXp = (r.misafirXp || 0) + n; return; }
     S.xp += n;
     let need = xpForLevel(S.level);
     while (S.xp >= need) {
